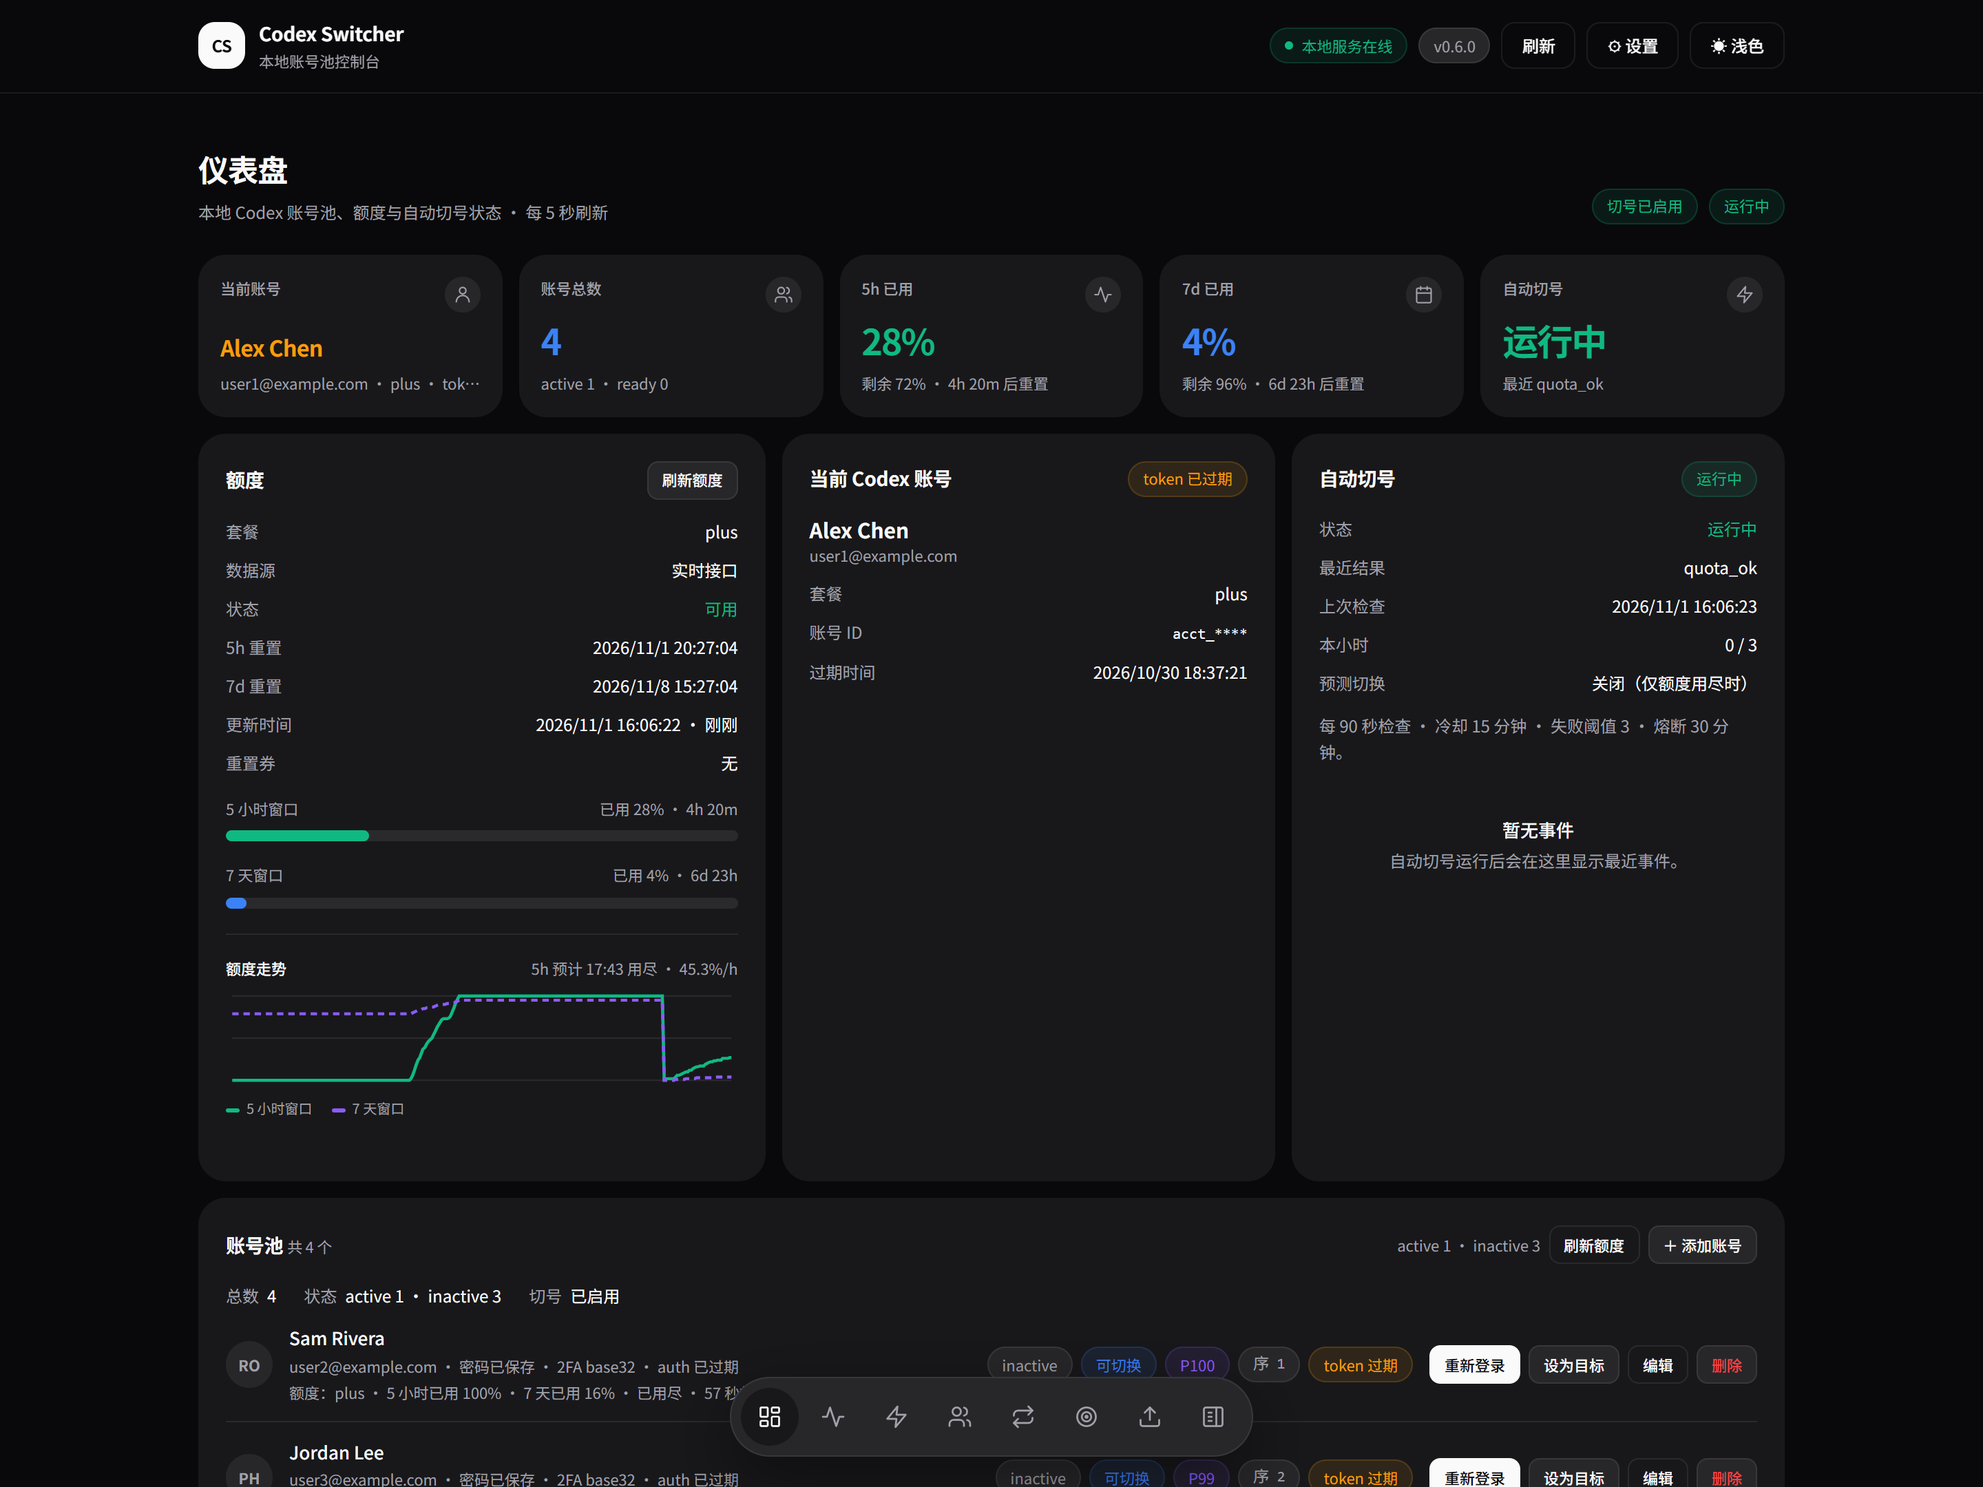
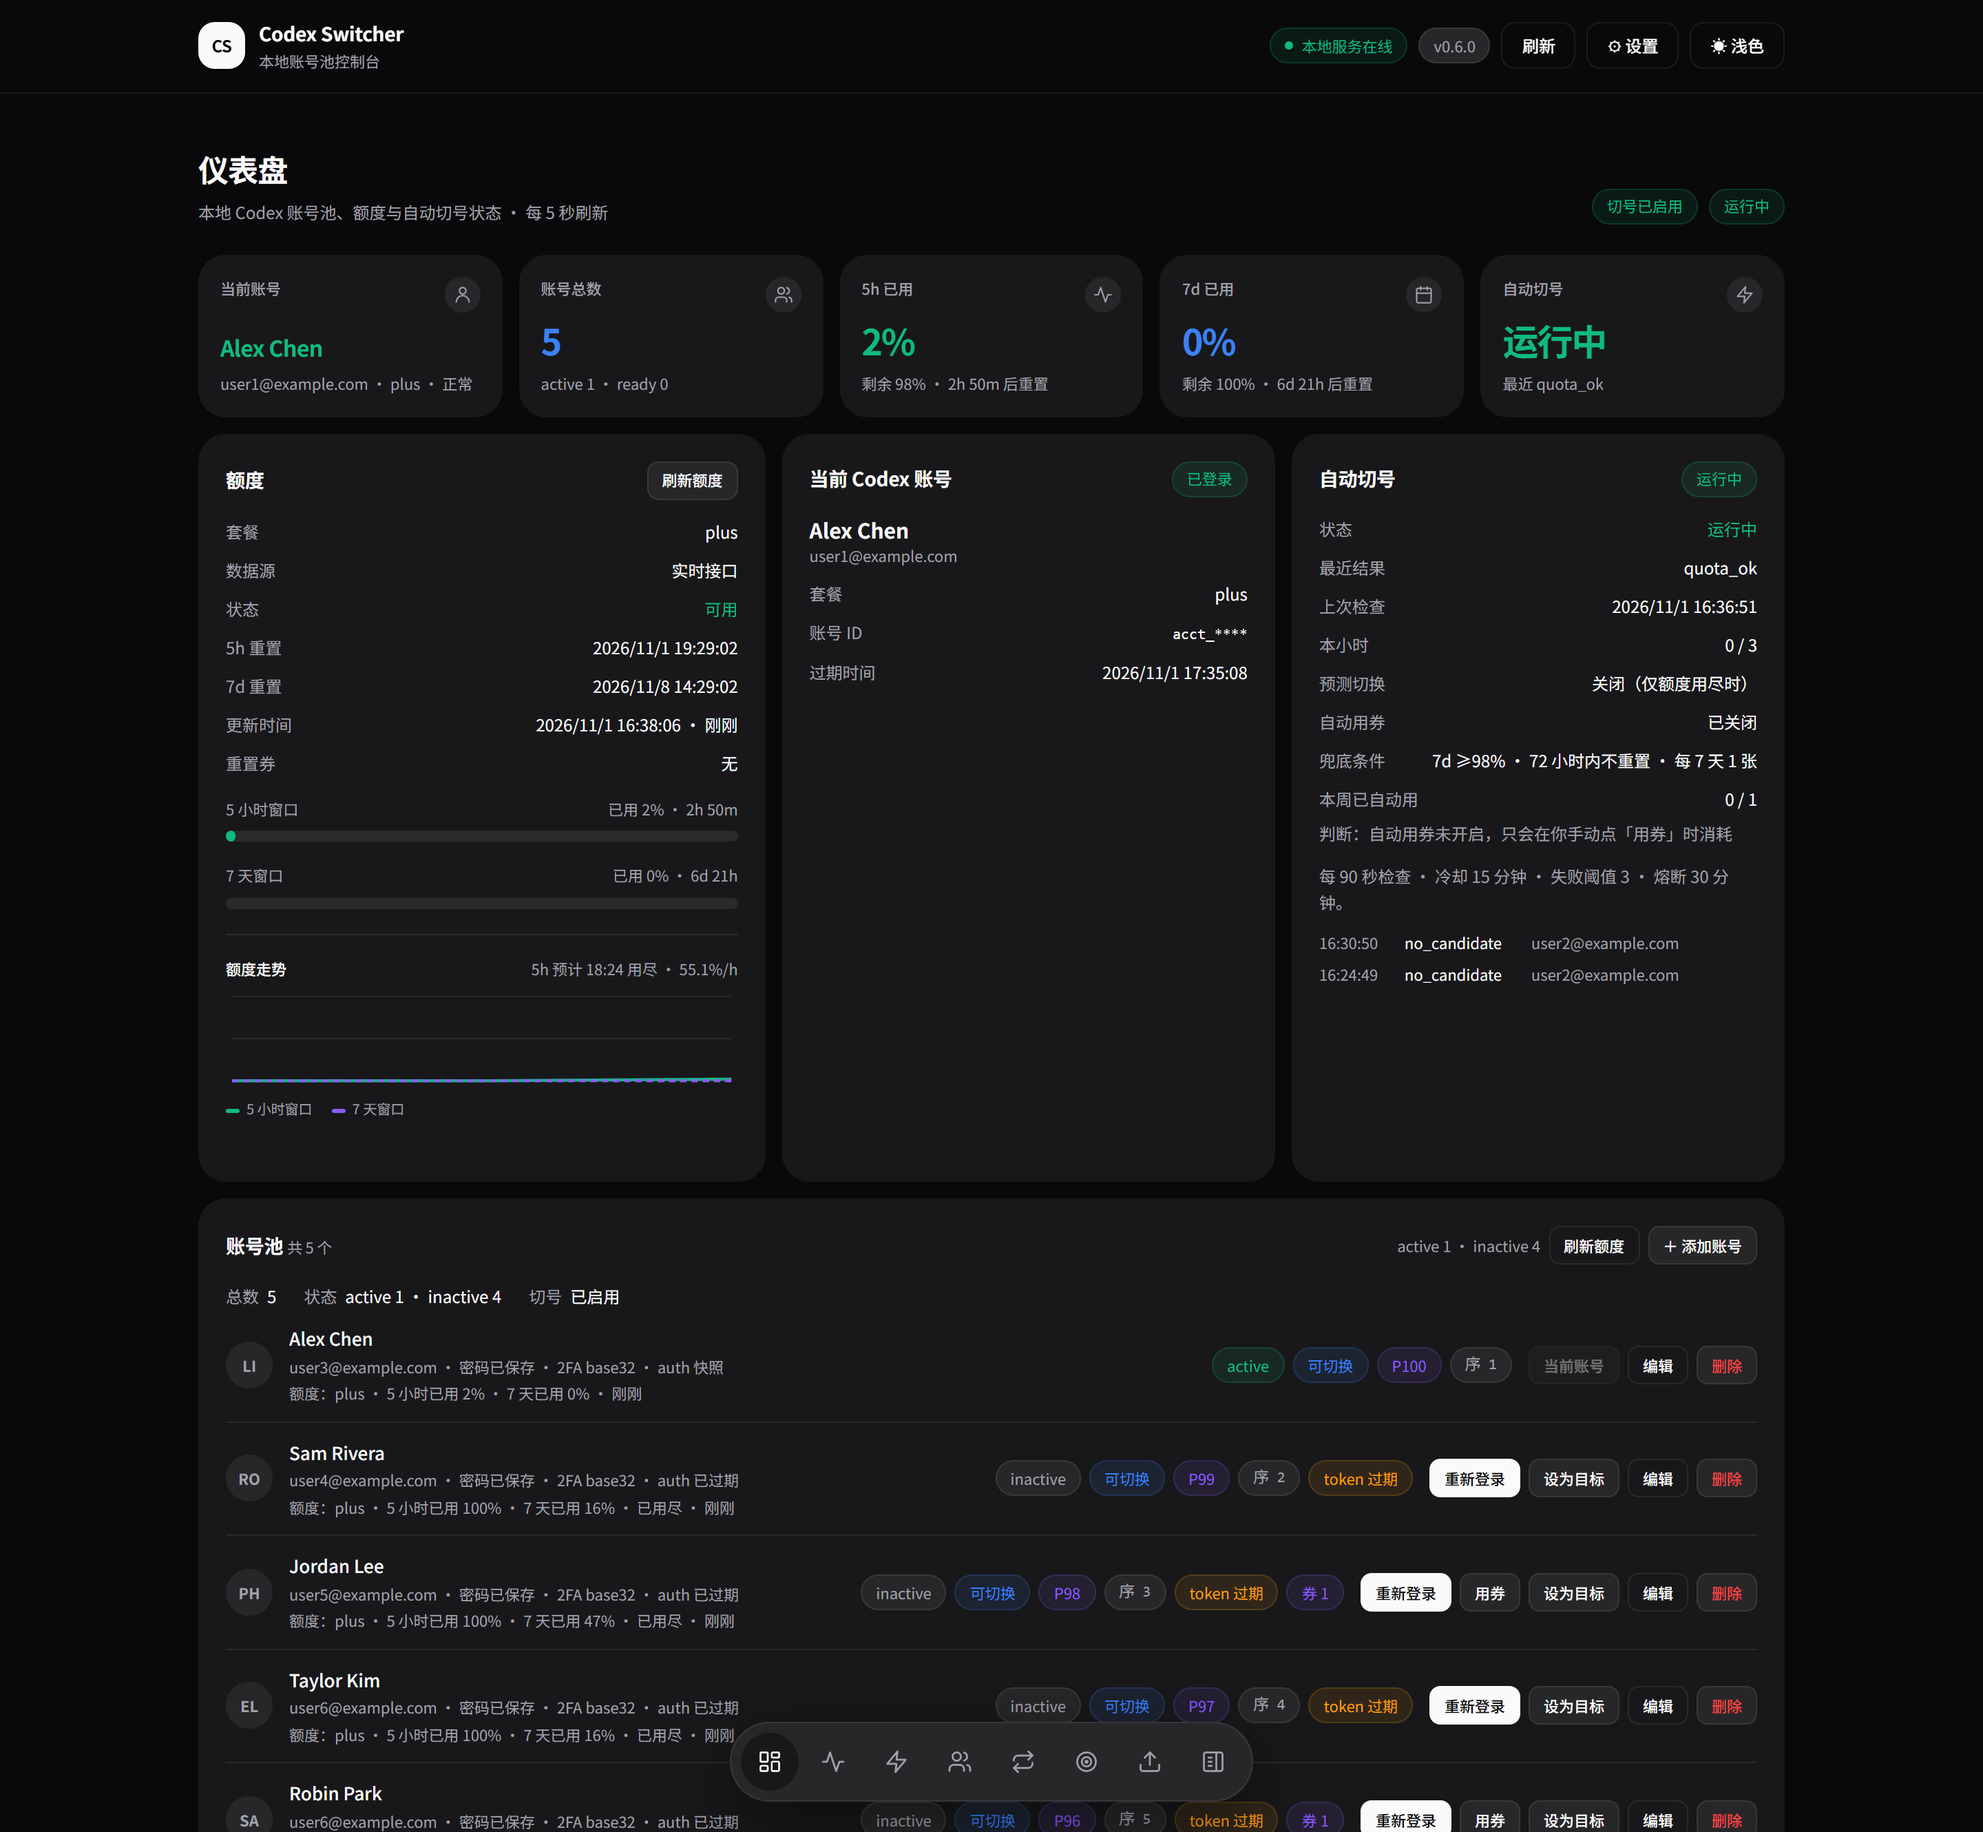
feat(dashboard): per-account reset credits and the auto-reset gate
Pool rows show each account's own credit count (from that account's snapshot token) with a 'use credit' button that posts /api/quota/reset with the email, so an exhausted account no longer has to be the current one to spend a credit. The auto-switch card now renders auto_reset state: enabled, thresholds, redemptions this week, and the gate reason in plain Chinese.

diff --git a/codex_switcher/dashboard.html b/codex_switcher/dashboard.html
@@ -724,6 +724,8 @@
         <span id="autoStateBadge" class="pill">读取中</span>
       </div>
       <div class="kv" id="autoBox"></div>
+      <div class="kv" id="autoResetBox" style="margin-top:10px"></div>
+      <div class="hint" id="autoResetHint" style="margin-top:6px"></div>
       <div class="hint" id="autoSwitchHint" style="margin-top:12px">自动切号：读取中…</div>
       <div class="events" id="autoEvents"></div>
     </section>
@@ -1149,6 +1151,19 @@
     return poolQuotas[(email || "").toLowerCase()] || null;
   }
 
+  // Reset credits are per account, not per pool: the number that matters is
+  // "can I burn one on *this* account". Returns null when the probe failed or
+  // the API did not report credits, so the row simply shows nothing.
+  function poolCredits(email) {
+    const entry = poolQuotaFor(email);
+    if (!entry || !entry.ok) return null;
+    const credits = entry.reset_credits;
+    if (!credits || typeof credits !== "object" || credits.known === false) return null;
+    const raw = credits.applicable_available_count;
+    const count = Number(raw === undefined || raw === null ? credits.available_count : raw);
+    return Number.isFinite(count) ? count : null;
+  }
+
   function poolQuotaLine(email) {
     const node = el("div", undefined, "quota-line");
     const entry = poolQuotaFor(email);
@@ -1219,6 +1234,42 @@
     }
   }
 
+  async function useResetCredit(account) {
+    const label = account.email_masked || account.email || "";
+    if (!confirm(
+      "确认消耗 1 张重置券重置 " + label + " 的额度？\n\n" +
+      "重置券一次性、不可撤回，会同时重置 5 小时与 7 天窗口。"
+    )) {
+      return;
+    }
+    const notice = $("#poolNotice");
+    if (notice) {
+      notice.className = "msg";
+      notice.textContent = "正在为 " + label + " 使用重置券…";
+    }
+    try {
+      const res = await api("/api/quota/reset", {
+        method: "POST",
+        headers: { "Content-Type": "application/json" },
+        body: JSON.stringify({ confirm: true, email: account.email }),
+      });
+      const result = res.result || {};
+      if (!res.ok) throw new Error(result.message || result.error || "重置失败");
+      if (notice) {
+        notice.className = "msg ok";
+        notice.textContent = label + " 已重置 " + (result.windows_reset || 0) + " 个窗口，额度已刷新";
+      }
+      poolQuotaFetchedAt = 0;
+      await refreshPoolQuotas(true);
+      refresh();
+    } catch (err) {
+      if (notice) {
+        notice.className = "msg bad";
+        notice.textContent = "重置失败：" + err.message;
+      }
+    }
+  }
+
   function renderAccounts(accounts) {
     if (draggingEmail) return;
     const wrap = $("#accountsWrap");
@@ -1269,6 +1320,12 @@
       orderPill.title = "自动切号从上往下尝试：拖拽账号行可以调整顺序";
       meta.appendChild(orderPill);
       if (snapshotExpired) meta.appendChild(pill("token 过期", "warn"));
+      const credits = poolCredits(account.email);
+      if (credits && credits > 0) {
+        const chip = pill("券 " + credits, "accent");
+        chip.title = "这个账号有 " + credits + " 张完整重置券：一张同时清零 5 小时和 7 天窗口，不可撤回";
+        meta.appendChild(chip);
+      }
       if (account.login) {
         meta.appendChild(pill(
           loginStateLabel(account.login),
@@ -1289,6 +1346,13 @@
         actions.appendChild(loginBtn);
       }
       const isCurrent = !!(currentEmail && account.email && account.email.toLowerCase() === currentEmail.toLowerCase());
+      if (credits && credits > 0) {
+        const resetBtn = el("button", "用券", "btn small");
+        resetBtn.type = "button";
+        resetBtn.title = "用掉这个账号的一张重置券（5h + 7d 一起清零，不可撤回）";
+        resetBtn.addEventListener("click", () => useResetCredit(account));
+        actions.appendChild(resetBtn);
+      }
       const button = el("button", isCurrent ? "当前账号" : "设为目标", "btn small");
       button.type = "button";
       button.disabled = !account.has_auth_snapshot || isCurrent;
@@ -2136,12 +2200,65 @@
     );
   }
 
+  // Why the auto-reset gate is closed, in words a user can act on. Mirrors
+  // AutoSwitchMonitor._reset_gate in auto_switch.py.
+  const RESET_GATE_TEXT = {
+    disabled: { text: "自动用券未开启，只会在你手动点「用券」时消耗", tone: "" },
+    ok: { text: "条件已满足：下次额度用尽且换不到号时会消耗一张", tone: "ok" },
+    below_threshold: { text: "7 天窗口还没到阈值，先靠自己换号", tone: "" },
+    window_resets_soon: { text: "7 天窗口很快会自然重置，等它更划算", tone: "" },
+    no_credit: { text: "当前账号没有可用的重置券", tone: "warn" },
+    weekly_cap: { text: "本周已经自动用过券，等满 7 天才重新计数", tone: "warn" },
+    no_secondary: { text: "额度接口没返回 7 天窗口，无法判断", tone: "warn" },
+    unknown: { text: "还拿不到券信息（额度未刷新或接口失败）", tone: "warn" },
+  };
+
+  function renderAutoReset(state) {
+    const box = $("#autoResetBox");
+    const hint = $("#autoResetHint");
+    if (!box || !hint) return;
+    box.textContent = "";
+    const reset = (state && state.auto_reset) || null;
+    if (!reset) {
+      hint.textContent = "";
+      hint.className = "hint";
+      return;
+    }
+    kv(box, "自动用券", reset.enabled ? "已开启" : "已关闭", { tone: reset.enabled ? "ok" : "" });
+    kv(
+      box,
+      "兜底条件",
+      "7d ≥" + (reset.secondary_threshold === undefined ? 98 : reset.secondary_threshold) + "% · " +
+        (reset.min_wait_hours === undefined ? 72 : reset.min_wait_hours) + " 小时内不重置 · 每 7 天 " +
+        (reset.max_per_week === undefined ? 1 : reset.max_per_week) + " 张"
+    );
+    kv(box, "本周已自动用", (reset.used_last_7d || 0) + " / " +
+      (reset.max_per_week === undefined ? 1 : reset.max_per_week));
+    if (reset.before_switch) kv(box, "顺序", "先用券再换号", { tone: "warn" });
+    const last = reset.last || null;
+    if (last && last.at) {
+      const what = last.ok
+        ? "成功 · 重置 " + (last.windows_reset || 0) + " 个窗口"
+        : "失败 · " + (last.error || "未知原因");
+      kv(box, "上次用券", formatDate(last.at) + " · " + what, { tone: last.ok ? "" : "bad" });
+    }
+    const gate = RESET_GATE_TEXT[reset.gate] || { text: reset.gate || "—", tone: "" };
+    hint.textContent = "判断：" + gate.text;
+    hint.className = "hint";
+    hint.style.color = gate.tone === "warn"
+      ? "var(--warning)"
+      : gate.tone === "ok"
+      ? "var(--success)"
+      : "";
+  }
+
   function renderAutoSwitch(state) {
     autoSwitchState = state || {};
     const box = $("#autoBox");
     const events = $("#autoEvents");
     const badge = $("#autoBadge");
     const stateBadge = $("#autoStateBadge");
+    renderAutoReset(state);
     const setBadges = (tone, text) => {
       badge.className = "pill " + tone;
       badge.textContent = text;

diff --git a/CHANGELOG.md b/CHANGELOG.md
@@ -11,6 +11,7 @@
 - `POST /api/quota/reset`（幂等键 `redeem_request_id`，省略 `credit_id` 时自动选最早过期的一张）。
 - `auto_reset.gate` 实时评估：`GET /api/auto-switch/status` 会给出没动手的具体原因（`disabled` / `below_threshold` / `window_resets_soon` / `no_credit` / `weekly_cap` / `unknown`），查询本身不消耗券。
 - 设置面板新增 5 个自动用券项；`start.ps1` 新增 `-EnableAutoReset`。
+- **按账号的重置券 UI**：账号池每行显示该账号自己的券数（`券 N`）并给出「用券」按钮（走 `POST /api/quota/reset` 带 `email`），不必先切成当前账号；「自动切号」卡片新增自动用券状态、兜底条件、本周已用次数，以及 gate 原因的中文解释（`disabled` / `below_threshold` / `window_resets_soon` / `no_credit` / `weekly_cap` / `unknown`）。
 
 ### 修复
 
